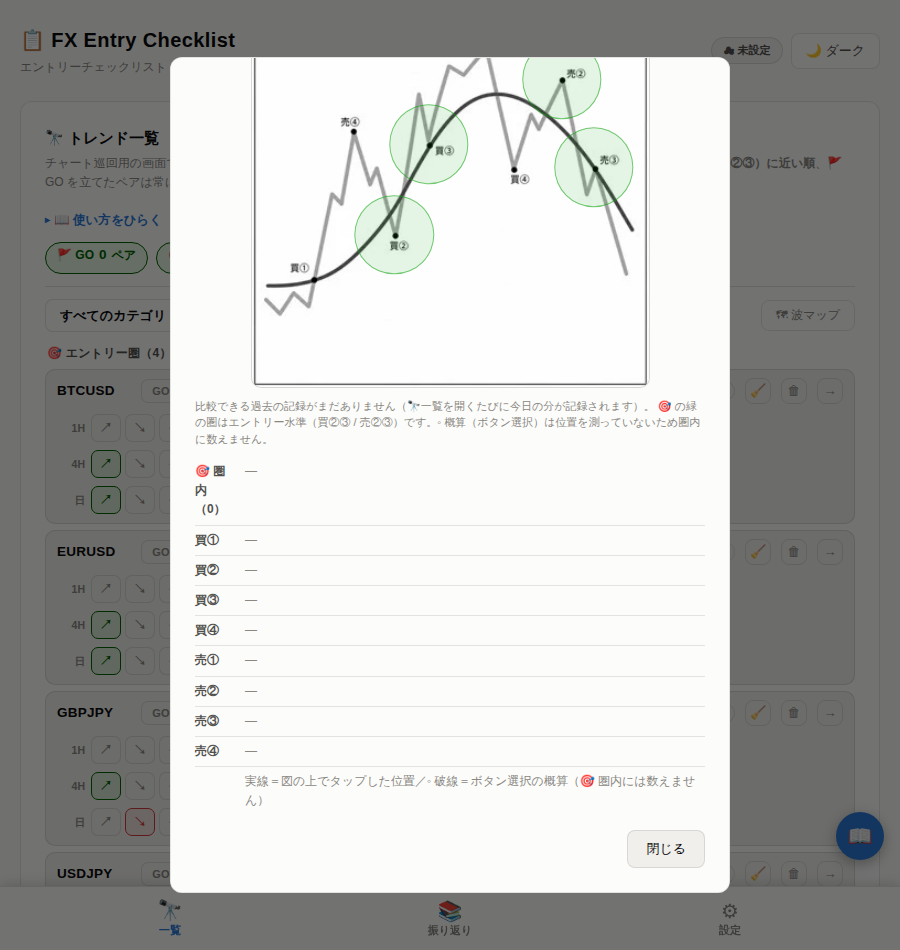
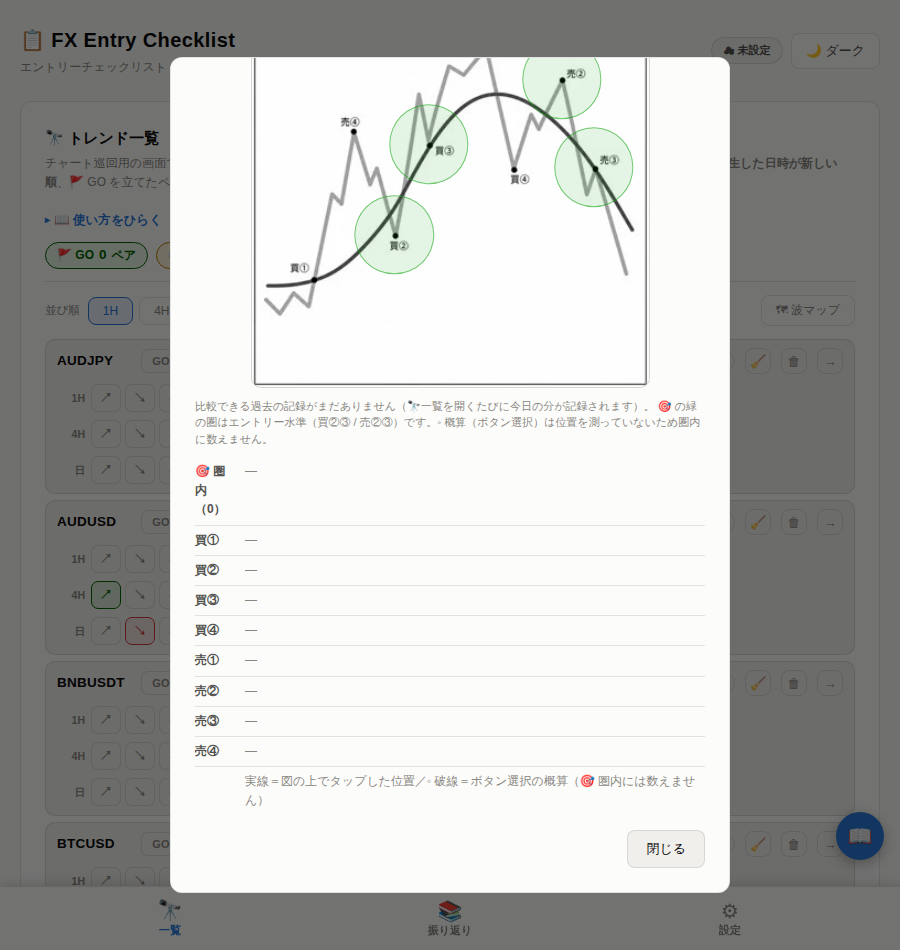
S67: 🔭一覧の並び順をアラート発生時刻順に置換、カード連動、圏内・巡回タイル撤去
ユーザー要望「1H/4H/日足/週足のソートを作成して。通貨カードのアラート鳴った足の
タップと連動させる。そして、圏内と巡回は消して」に対応。

- ツールバーに並び順切替ボタン（1H/4H/D/W）を新設。選んだ足のアラート発生日時が
  新しい順に一覧を並べる（trendSortTf、既定h1）。旧エントリー圏距離順ソートは撤去
- カード上のアラートバッジをタップすると、ON/OFFトグルと同時に並び順の基準足も
  その足に切り替わる（mvToggleAlert内）
- サマリーの「🎯圏内」「巡回n/mペア」タイル、エントリー圏のみ絞り込み、
  グループ見出しを撤去（GO/未更新の2タイルに整理）
- pairEntryDistance()等の圏内判定関数は波マップ・🎯根拠ボタンの色分けのため存続

データモデル・CSV・端末間マージ・統計・波マップ・根拠パネルは無変更。
既存テスト（s44/s59/s60/s40-test.mjs）を現行仕様に更新し全項目通過。
sw.js: v37→v38

Claude-Session: https://claude.ai/code/session_01JVK65MvoviEtAcHfZFtXSC

diff --git a/index.html b/index.html
@@ -1210,18 +1210,21 @@
   <!-- ============ 🔭 トレンド一覧（監視ペア横断） ============ -->
   <section class="card tab-panel" id="tabPanel-trend">
     <h2>🔭 トレンド一覧</h2>
-    <div class="section-note">チャート巡回用の画面です。足ごとに<strong>方向・EMAゾーン・波</strong>をその場でタップ記録します。並び順は<strong>エントリー圏（買②③/売②③）に近い順</strong>、🚩 GO を立てたペアは常に最上位です。</div>
+    <div class="section-note">チャート巡回用の画面です。足ごとに<strong>方向・EMAゾーン・波</strong>をその場でタップ記録します。並び順は<strong>選んだ足でアラートが発生した日時が新しい順</strong>、🚩 GO を立てたペアは常に最上位です。</div>
     <details class="trend-help">
       <summary>📖 使い方をひらく</summary>
       <div class="trend-help-body">
         <strong>波のチップ</strong>を押すとグランビルの図が開くので、<strong>今のローソク足の位置を図の上で直接タップ</strong>してください（最寄りの波が自動で決まり、位置そのものも残ります）。<br>
         <strong>GOボタン</strong>は近々エントリーが近いと自分で判断したペアに立てる手動の目印で、解除するまで残ります（🧹巡回記録クリアでも消えません）。<br>
+        <strong>並び順</strong>はツールバーの1H/4H/D/Wボタン、またはカード上のアラートバッジをタップして切り替えられます（タップした足のアラート発生時刻が新しい順になります）。<br>
         記録した波の位置は <strong>🗺 波マップ</strong>で全通貨まとめて見られます。<br>
         🕐鮮度は12時間で「1回抜けた」、36時間で「1日抜けた」の目安です。
       </div>
     </details>
     <div class="trend-summary" id="trendSummary"></div>
     <div class="trend-toolbar">
+      <span class="trend-tf-label">並び順</span>
+      <span class="trend-tf-toggles" id="trendSortToggles"></span>
       <select class="trend-category-select" id="trendCategorySelect"></select>
       <span class="trend-tf-label">表示する足</span>
       <span class="trend-tf-toggles" id="trendTfToggles"></span>
@@ -1550,10 +1553,12 @@ function gvEntryDistance(x, y) {
   return best;
 }
 
-/* S44: ペアが「チャンスにどれだけ近いか」。小さいほど上に並ぶ（記録が無ければ Infinity）。
-   GO / WAIT / NO の3段階ラベルを置き換える連続量で、S32 と同じく w には一切保存しない導出。
+/* S44: ペアが「チャンスにどれだけ近いか」。小さいほど圏内に近い（記録が無ければ Infinity）。
+   GO / WAIT / NO の3段階ラベルを置き換えた連続量で、S32 と同じく w には一切保存しない導出。
+   S67: 一覧の並び順そのものはアラート発生時刻順（trendSortTf）に置き換わったが、
+   この関数自体は波マップの色分けと🎯根拠ボタンの圏内強調（trendEntryChipHtml）で使い続ける。
    ⚠ 見るのは MV_TREND_DEFAULT_TFS（1時間足・4時間足・日足、S57で1H追加）だけ。週足・月足は表示トグルで
-      出入りするので、混ぜると「表示を切り替えただけで並び順が飛ぶ」。
+      出入りするので、混ぜると「表示を切り替えただけで圏内判定が飛ぶ」。
    ⚠ 概算（ボタンで選んだだけ＝wpos が空）は数えない。概算の座標はアンカーそのもので距離0になり、
       買②③/売②③を選んだ全件が無条件で最上位に来てしまう（S43 の圏内判定と同じ理由）。
    方向と逆 side の波は mvWriteTrend() が自動で消すので、ここで side を見る必要はない。 */
@@ -1723,10 +1728,12 @@ const MV_TREND_TFS = [
   { k: 'w',  label: '週足',    short: '週', optional: true },
   { k: 'mn', label: '月足',    short: '月', optional: true },
 ];
-/* ⚠ 並び順・サマリーの主軸はこの3足（S57で1時間足を追加）。週足・月足は表示トグルで出入りするため、
-   主軸に入れると「表示を切り替えただけでペアがグループ間を飛ぶ」ことになる。
+/* ⚠ 波マップ・🎯根拠ボタンの色分け（pairEntryDistance()）が主軸にするのはこの3足
+   （S57で1時間足を追加）。週足・月足は表示トグルで出入りするため、主軸に入れると
+   「表示を切り替えただけでペアがグループ間を飛ぶ」ことになる。
    また記録済み全足を必須にすると、月足が未記録なだけで全ペアが最上位から落ちる（初日は必ずそうなる）。
-   S44: pairEntryDistance()（並び順とサマリーの 🎯 圏内）が見るのもこの3足だけ。行に出る
+   S67: 一覧の並び順自体はアラート発生時刻順（trendSortTf）に置き換わったが、
+   pairEntryDistance() 自体は波マップ・🎯チップの圏内判定で使い続けるので見るのはこの3足だけ。行に出る
    🎯 チップは足ごとなので週足・月足でも出るが、ペアの順位は動かさない。 */
 const MV_TREND_DEFAULT_TFS = MV_TREND_TFS.filter(t => !t.optional);
 
@@ -3480,6 +3487,10 @@ function mvToggleAlert(watchId, tfKey) {
   const chAt = new Date().toISOString();
   w.alerts[tfKey] = cur.on ? { on: false, at: '', chAt } : { on: true, at: chAt, chAt };
   if (!saveMarket(data)) return;
+  /* S67: カード上のアラートバッジをタップした瞬間、一覧の並び順の基準もその足に切り替える
+     （ユーザー要望「通貨カードのアラート鳴った足のタップと連動」）。ON/OFFどちらのタップでも、
+     今その足を見ている＝その足を基準に一覧を見たい、とみなして切り替える。 */
+  trendSortTf = tfKey;
   renderMarket();
   renderTrendList();
 }
@@ -3603,16 +3614,22 @@ document.getElementById('mvDeleteConfirm').addEventListener('click', () => {
 const trendListEl    = document.getElementById('trendList');
 const trendSummaryEl = document.getElementById('trendSummary');
 const trendTfBar     = document.getElementById('trendTfToggles');
+const trendSortToggles = document.getElementById('trendSortToggles');
 const trendCategorySelect = document.getElementById('trendCategorySelect');
 
-/* S44: 「エントリー圏のみ」の絞り込み。永続化しない。
-   S60: 絞り込みボタンはツールバーから撤去し、サマリータイル（#trendSummary 内の
+/* S60: 絞り込みボタンはツールバーから撤去し、サマリータイル（#trendSummary 内の
    [data-trend-summary-filter]）がフィルタON/OFFを兼ねる。サマリーとツールバーに
-   同じラベルの押せる要素が2箇所並んで紛らわしいというユーザー指摘への対応。 */
-let trendEntryOnly   = false;
+   同じラベルの押せる要素が2箇所並んで紛らわしいというユーザー指摘への対応。
+   S67: 「🎯エントリー圏のみ」絞り込み（trendEntryOnly）はエントリー圏並び順の廃止に伴い撤去。 */
 let trendStaleOnly   = false; // 「未更新のみ」の絞り込み。永続化しない
 let trendCategory    = '';    // カテゴリ絞り込み（MV_PAIR_GROUPS の label、空文字=すべて）。永続化しない
 let trendGoOnly      = false; // S58: 「🚩GOのみ」の絞り込み（w.go）。永続化しない
+/* S67: 並び順の基準時間足。GO/WAIT/NO→S44でエントリー圏距離順→S67でアラート発生時刻順、
+   と実運用フローの変化に合わせて置き換えた。選んだ足でアラートが発生した日時の新しい順に
+   並べる（アラート＝チャンス到来のシグナルなので、直近で鳴ったものを最優先で見る）。
+   カード上のアラートバッジをタップした瞬間にもこの値へ切り替わる（mvToggleAlert 内）。
+   永続化しない（巡回中の一時的な視点切り替えのため）。 */
+let trendSortTf      = 'h1';
 /* S33: 開いている根拠パネル。S44 で { id, setupKey } → { id, tfKey }（開いた足がそのまま上位足）。
    一度に1つだけ。巡回中の一時状態なので永続化しない。
    ⚠ trendEntryChipHtml / trendItemHtml より前に宣言すること（描画時に参照する）。 */
@@ -3668,6 +3685,15 @@ function trendAgeHours(w) {
   return (Date.now() - t) / 3600000;
 }
 function isTrendStale(w) { return trendAgeHours(w) > TREND_STALE_H; }
+
+/* S67: 並び順の基準。指定した時間足でアラートが発生した日時（新しい順）で一覧を並べる。
+   アラートが立っていない／発生日時が無いペアは -Infinity で末尾に沈み、同値は名前順で安定する。 */
+function alertSortValue(w, tfKey) {
+  const a = w.alerts && w.alerts[tfKey];
+  if (!a || !a.on || !a.at) return -Infinity;
+  const t = Date.parse(a.at);
+  return isNaN(t) ? -Infinity : t;
+}
 
 function trendFreshChip(w) {
   const h = trendAgeHours(w);
@@ -3879,34 +3905,28 @@ function trendItemHtml(w) {
 
 /* 上部サマリー：今どの状態が何件かを一目で把握する。行の差し替え時も更新する。
    S59: 足単位の方向カウント（↗/↘/─/未記録）を撤去した。28ペア×3足＝84件の分母で
-   ペア単位のタイル（圏内・未更新など）と単位が揃っておらず誤読の元だったため
-   （方向は各行のトグルの色そのものが常時見えており、集計の価値が薄い）。
-   代わりに「巡回 n/m ペア」で今日どこまで見終えたかの進捗を出す。
-   タイルの並びはツールバー1行目のフィルタボタンと同じ順（GO→圏内→未更新）に揃える。 */
+   ペア単位のタイルと単位が揃っておらず誤読の元だったため（方向は各行のトグルの色そのものが
+   常時見えており、集計の価値が薄い）。
+   S67: 「🎯 圏内」（エントリー圏の並び順廃止に伴い）と「巡回 n/m ペア」（進捗表示、
+   アラート発生時刻順への置き換えで見る意味が薄れた）の2タイルを撤去。
+   タイルの並びはツールバーのフィルタボタンと同じ順（GO→未更新）に揃える。 */
 function renderTrendSummary(pairs) {
-  const counts = { go: 0, hot: 0, stale: 0, done: 0 };
+  const counts = { go: 0, stale: 0 };
   pairs.forEach(w => {
     if (w.go) counts.go++;
-    if (pairIsHot(w)) counts.hot++;
     if (isTrendStale(w)) counts.stale++;
-    if (w.trendAt) counts.done++;
   });
-  /* S60: GO/圏内/未更新はタップでフィルタを兼ねるボタンにする（旧・ツールバーの
-     同名ボタンはここへ統合して撤去した）。巡回タイルだけは絞り込み手段が無いので
-     従来通り <span>。filter キーは trendSummaryEl のクリック委任ハンドラと対応させる。 */
+  /* S60: GO/未更新はタップでフィルタを兼ねるボタン。filter キーは trendSummaryEl の
+     クリック委任ハンドラと対応させる。 */
   const summaryItems = [
     { cls: 'go',    label: '🚩 GO',    n: counts.go,    unit: 'ペア', filter: 'go',    on: trendGoOnly },
-    { cls: 'hot',   label: '🎯 圏内',  n: counts.hot,   unit: 'ペア', filter: 'hot',   on: trendEntryOnly },
     { cls: 'stale', label: '🕐 未更新', n: counts.stale, unit: 'ペア', filter: 'stale', on: trendStaleOnly },
-    { cls: '',      label: '巡回',     n: counts.done + '/' + pairs.length, unit: 'ペア' },
   ];
   trendSummaryEl.innerHTML = pairs.length
     ? summaryItems.map(i => {
         const cls = 'item' + (i.cls ? ' ' + i.cls : '') + (i.on ? ' on' : '');
         const inner = esc(i.label) + '<span class="n">' + i.n + '</span>' + esc(i.unit);
-        return i.filter
-          ? '<button type="button" class="' + cls + '" data-trend-summary-filter="' + i.filter + '">' + inner + '</button>'
-          : '<span class="' + cls + '">' + inner + '</span>';
+        return '<button type="button" class="' + cls + '" data-trend-summary-filter="' + i.filter + '">' + inner + '</button>';
       }).join('')
     : '';
 }
@@ -3917,6 +3937,16 @@ function renderTrendTfToggles() {
     '<button type="button" class="btn-ghost trend-filter-btn' +
     (trendVisibleTfs.some(v => v.k === t.k) ? ' on' : '') + '"' +
     ' data-trend-tf-toggle="' + t.k + '">' + esc(t.label) + '</button>').join('');
+}
+
+/* S67: 並び順の基準時間足（1H/4H/D/W）の切替。MV_ALERT_TFS をそのまま流用し、
+   カード上のアラートバッジと同じキー・ラベルで揃える（タップ連動と一貫させるため）。 */
+function renderTrendSortToggles() {
+  trendSortToggles.innerHTML = MV_ALERT_TFS.map(t =>
+    '<button type="button" class="btn-ghost trend-filter-btn' +
+    (trendSortTf === t.k ? ' on' : '') + '"' +
+    ' data-trend-sort-tf="' + t.k + '" title="' + esc(t.full) + 'のアラート発生が新しい順に並べる">' +
+    esc(t.label) + '</button>').join('');
 }
 
 /* ボードの通貨ペア選択と同じ MV_PAIR_GROUPS を流用し、カテゴリ絞り込み用プルダウンを描画する。 */
@@ -3931,13 +3961,12 @@ function renderTrendCategoryOptions() {
 
 
 /* ツールバーの絞り込みを AND で当てる。順序は AND なので結果に影響しないが、
-   S59でツールバー1行目の表示順（GO→圏内→未更新→カテゴリ）に揃えてある。
-   S40: 🗺 波マップも同じ条件で描くため、一覧の中に埋めずに切り出してある。 */
+   表示順（GO→未更新→カテゴリ）に揃えてある。
+   S40: 🗺 波マップも同じ条件で描くため、一覧の中に埋めずに切り出してある。
+   S67: 「🎯エントリー圏のみ」（trendEntryOnly）はエントリー圏並び順の廃止に伴い撤去。 */
 function trendApplyFilters(pairs) {
   let shown = pairs;
   if (trendGoOnly)     shown = shown.filter(w => w.go);
-  /* S44: 図の上でタップした位置が買②③/売②③の圏内にあるペアだけに絞る。 */
-  if (trendEntryOnly)  shown = shown.filter(pairIsHot);
   if (trendStaleOnly)  shown = shown.filter(isTrendStale);
   if (trendCategory)   shown = shown.filter(w => trendCategoryOf(w.pair) === trendCategory);
   return shown;
@@ -3945,12 +3974,16 @@ function trendApplyFilters(pairs) {
 
 function renderTrendList() {
   const data = loadMarket();
-  /* S44: エントリー圏に近い順。記録が無いペアは Infinity で下に沈み、同値は名前順で安定する。 */
+  /* S67: 選択した時間足（trendSortTf）でアラートが発生した日時の新しい順。
+     アラートが無いペアは末尾に沈み、同値は名前順で安定する。
+     旧・エントリー圏距離順（pairEntryDistance）は実運用フローの変化により撤去。
+     ただし pairEntryDistance / pairIsHot 自体は波マップ・🎯根拠ボタンの色分けで使うため残す。 */
   const pairs = data.pairs.slice().sort((a, b) =>
-    pairEntryDistance(a) - pairEntryDistance(b) ||
+    alertSortValue(b, trendSortTf) - alertSortValue(a, trendSortTf) ||
     String(a.pair).localeCompare(String(b.pair)));
 
   renderTrendSummary(pairs);
+  renderTrendSortToggles();
   renderTrendTfToggles();
   renderTrendCategoryOptions();
 
@@ -3966,24 +3999,20 @@ function renderTrendList() {
   }
 
   /* S58: 手動GOを最上位グループに独立させる。GOは自分で立てた優先度なので、
-     エントリー圏（自動距離）より上に来る。GO内部もこれまで通り距離順のまま
+     アラート発生時刻順（自動並び）より上に来る。GO内部もこれまで通り並び順のまま
      （pairs の並びをそのままフィルタしているだけなので順序は保たれる）。
-     S44: 続くグループはエントリー圏の1本だけ。圏外は見出しを付けずにそのまま続ける
-     （距離順に並んでいるので、上から見ていけば「次に近いもの」が自然に読める）。 */
+     S67: エントリー圏グループ（旧「🎯 エントリー圏」見出し）を撤去したため、
+     GO以外は見出し無しで続ける（アラート時刻順に並んでいるので、上から見れば
+     「直近で鳴ったもの」が自然に読める）。 */
   const go = shown.filter(w => w.go);
   let html = '';
   if (go.length) {
     html += '<div class="trend-group-head go">🚩 GO（' + go.length + '）</div>';
     html += go.map(trendItemHtml).join('');
   }
-  const hot = shown.filter(w => !w.go && pairIsHot(w));
-  if (hot.length) {
-    html += '<div class="trend-group-head">🎯 エントリー圏（' + hot.length + '）</div>';
-    html += hot.map(trendItemHtml).join('');
-  }
-  const rest = shown.filter(w => !w.go && !pairIsHot(w));
+  const rest = shown.filter(w => !w.go);
   if (rest.length) {
-    if (go.length || hot.length) html += '<div class="trend-group-head sub">─ その他（' + rest.length + '）</div>';
+    if (go.length) html += '<div class="trend-group-head sub">─ その他（' + rest.length + '）</div>';
     html += rest.map(trendItemHtml).join('');
   }
   trendListEl.innerHTML = html;
@@ -4003,15 +4032,23 @@ function trendPatchItem(w) {
   renderTrendSummary(loadMarket().pairs);
 }
 
-/* S60: サマリータイル自体がフィルタボタン（旧・ツールバーの4ボタンを統合）。
-   イベント委任で1箇所に集約し、data-trend-summary-filter の値でどのフラグを反転するか決める。 */
+/* S60: サマリータイル自体がフィルタボタン。イベント委任で1箇所に集約し、
+   data-trend-summary-filter の値でどのフラグを反転するか決める。
+   S67: 'hot'（🎯圏内）は撤去済みのタイルなので分岐も削除。 */
 trendSummaryEl.addEventListener('click', (e) => {
   const btn = e.target.closest('[data-trend-summary-filter]');
   if (!btn) return;
   const f = btn.dataset.trendSummaryFilter;
   if (f === 'go') trendGoOnly = !trendGoOnly;
-  else if (f === 'hot') trendEntryOnly = !trendEntryOnly;
   else if (f === 'stale') trendStaleOnly = !trendStaleOnly;
+  renderTrendList();
+});
+/* S67: 並び順の基準時間足（1H/4H/D/W）切替。カード上のアラートバッジタップ（mvToggleAlert）
+   と同じ trendSortTf を共有するので、ツールバーとカードのどちらから触っても一覧に反映される。 */
+trendSortToggles.addEventListener('click', (e) => {
+  const btn = e.target.closest('[data-trend-sort-tf]');
+  if (!btn) return;
+  trendSortTf = btn.dataset.trendSortTf;
   renderTrendList();
 });
 trendCategorySelect.addEventListener('change', () => {

diff --git a/sw.js b/sw.js
@@ -6,7 +6,7 @@
  * ⚠ index.html を更新したら CACHE の版番号を上げること。
  *   上げ忘れても HTML は network-first なので最新が届くが、assets の差し替えは届かない。
  */
-const CACHE = 'fx-checklist-v37';
+const CACHE = 'fx-checklist-v38';
 
 /* 起動に最低限必要なもの。画像は重いので事前取得せず、使われたときに入れる。 */
 const PRECACHE = ['./', './index.html', './manifest.webmanifest',
